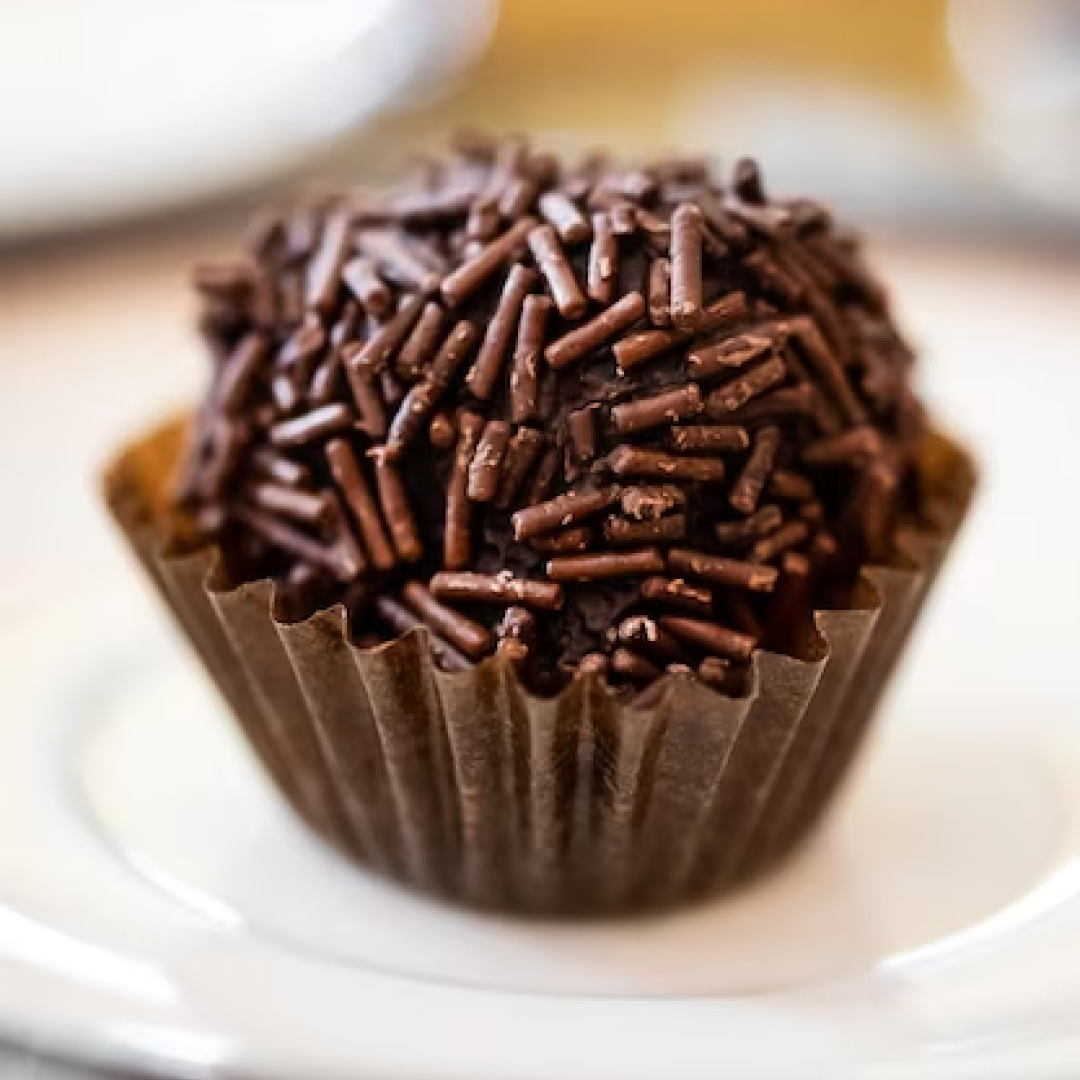
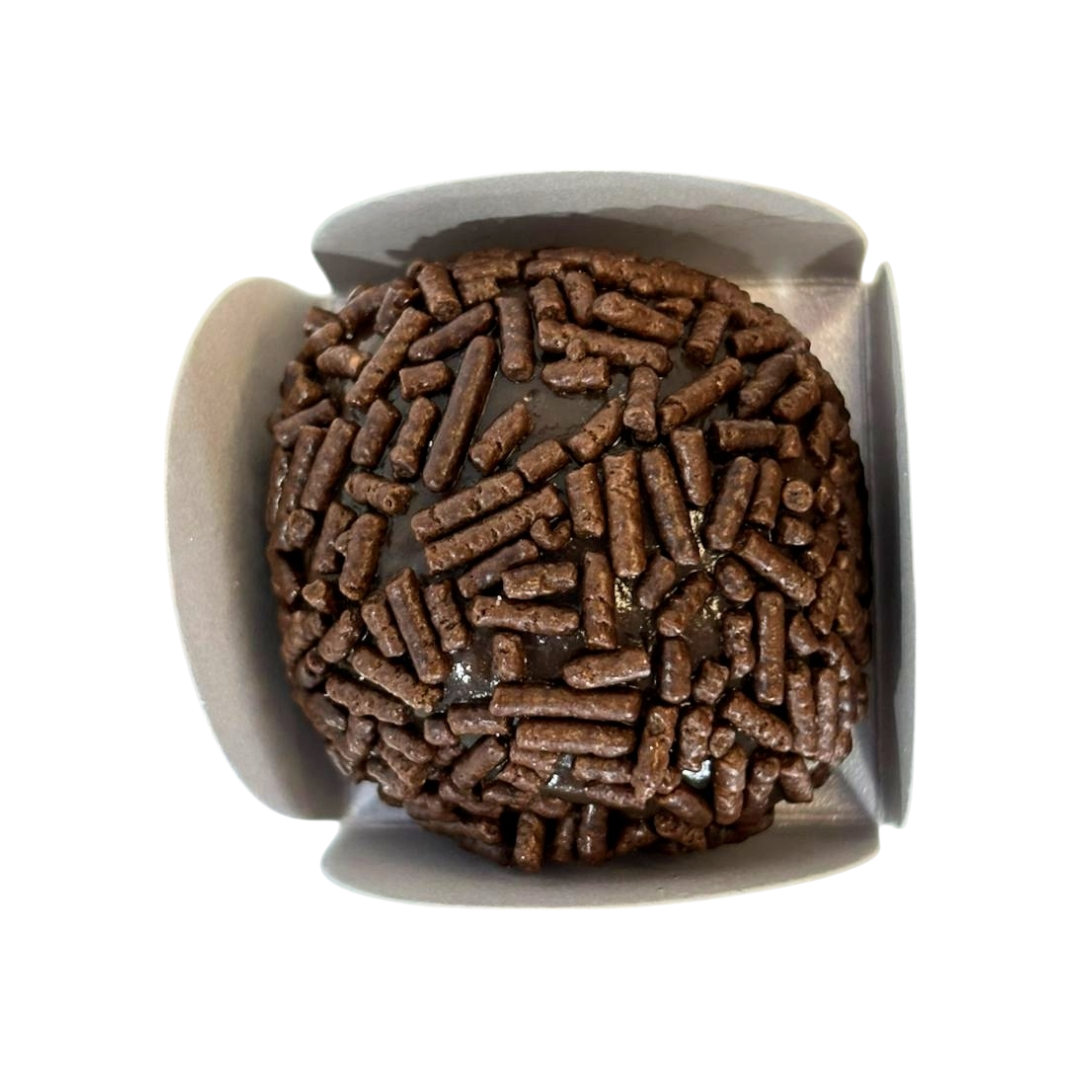
styles: change photos doces

diff --git a/src/data.ts b/src/data.ts
@@ -102,7 +102,7 @@ export const dataCatalog = {
       id: "olho-de-sogra",
       title: "Olho de sogra",
       price: 0.85,
-      image: "/cardapio/doces/gourmet/olho-de-sogra.png",
+      image: "/cardapio/doces/gourmet/sogra.png",
       category: "docesGourmet",
       min: 10,
     },
@@ -110,7 +110,7 @@ export const dataCatalog = {
       id: "brigadeiro-de-cafe",
       title: "Brigadeiro de café",
       price: 0.85,
-      image: "/cardapio/doces/gourmet/brigadeiro-de-cafe.jpeg",
+      image: "/cardapio/doces/gourmet/cafe.png",
       category: "docesGourmet",
       min: 10,
     },
@@ -175,7 +175,7 @@ export const dataCatalog = {
       id: "camafeu",
       title: "Camafeu de Nozes",
       price: 1.5,
-      image: "/cardapio/doces/finos/camafeu.jpeg",
+      image: "/cardapio/doces/finos/camafeu.png",
       category: "docesFinos",
       min: 10,
     },
@@ -183,7 +183,7 @@ export const dataCatalog = {
       id: "rafaello",
       title: "Rafaello",
       price: 1.5,
-      image: "/cardapio/doces/finos/rafaello.jpeg",
+      image: "/cardapio/doces/finos/rafaello.png",
       category: "docesFinos",
       min: 10,
     },
@@ -199,7 +199,7 @@ export const dataCatalog = {
       id: "bombom-de-damasco",
       title: "Bombom de damasco",
       price: 2,
-      image: "/cardapio/doces/finos/bobom-de-damasco.jpeg",
+      image: "/cardapio/doces/finos/damasco.png",
       category: "docesFinos",
       min: 10,
     },
